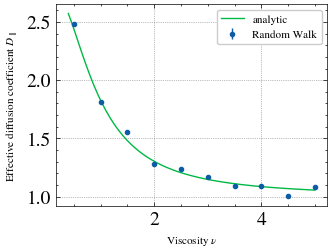
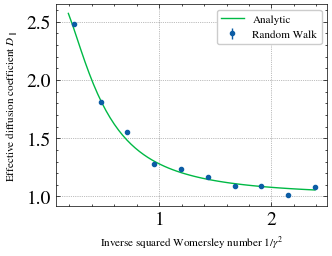
plotted more, and moved some old files

diff --git a/geometry_calculation/trash_code/plot_u2.py b/geometry_calculation/trash_code/plot_u2.py
@@ -1,62 +1,43 @@
 import numpy as np 
 import matplotlib.pyplot as plt 
-import pandas as pd
+#from cmath import *
 from scipy.interpolate import griddata
-import matplotlib
-import matplotlib.ticker as tick 
-import os
 
-matplotlib.rc('xtick', labelsize=14)
-matplotlib.rc('ytick', labelsize=14)
-matplotlib.rcParams['mathtext.fontset'] = 'stix'
-matplotlib.rcParams['font.family'] = 'STIXGeneral'
-
-epsilon = 0.2
-
-Sc = 1
-F0 = 1
-pi = np.pi 
-omega = 1
-kappa = 2
+Ny = int(300)
+Nx = 100
 Nt = 10
-T = np.linspace(0, np.pi/omega, Nt)
-eta = np.linspace(-np.pi/(2*kappa), 3*np.pi/kappa+np.pi/(2*kappa), 100)
-xi = np.linspace(-1, 1, 500)
-gamma = np.sqrt(1j*omega/Sc)
 
-u_x = np.zeros((len(T), len(xi), len(eta)), dtype="complex")
-u_y = np.zeros((len(T), len(xi), len(eta)), dtype="complex")
+epsilon = 0.3
+omega = 1	
+Sc = 1
+kappa = 1e-3
+gamma = 1j*omega/Sc 
+F0 = 3
 
-kappa_prime = np.sqrt(1j*omega/Sc + kappa*kappa)
-P1 = (gamma*F0*np.tanh(gamma)/(kappa*np.cosh(kappa)))/(1-kappa_prime*np.tanh(kappa)/(kappa*np.tanh(kappa_prime)))
 kappa_p = np.sqrt(kappa*kappa+gamma*gamma)
 kappa_pp = np.sqrt(4*kappa*kappa+gamma*gamma)
 P_1 = (gamma*F0*np.tanh(gamma)/(kappa*np.cosh(kappa)))/(1-kappa_p*np.tanh(kappa)/(kappa*np.tanh(kappa_p)))
-
-for t in range(len(T)):
-	for x in range(len(xi)):
-		u_x[t,x,:]    = epsilon*np.sin(kappa*eta)*(  (P1*kappa*np.cosh(kappa)/(gamma*gamma))*(np.cosh(kappa*xi[x])/np.cosh(kappa) - np.cosh(kappa_prime*xi[x])/np.cosh(kappa_prime))   + (F0*np.tanh(gamma)/(gamma))*(np.cosh(kappa_prime*xi[x])/np.cosh(kappa_prime) - xi[x]*np.sinh(gamma*xi[x])/np.sinh(gamma))  )
-		u_x[t,x,:]   += F0*(1-np.cosh(gamma*xi[x])/np.cosh(gamma))/(gamma*gamma)
-		u_x[t,x,:]   *= np.exp(1j*omega*T[t])
-
-		u_y[t, x, :] = epsilon*(np.exp(1j*omega*T[t])*np.cos(kappa*eta)*kappa*P1*np.sinh(kappa)/(gamma*gamma))*( np.sinh(kappa_prime*xi[x])/np.sinh(kappa_prime) - np.sinh(kappa*xi[x])/np.sinh(kappa))
-
-u_x = np.real(u_x)
-u_y = np.real(u_y)
 
 from cmath import *
 Ax = sqrt(gamma**2 + 4*kappa**2)*(F0*gamma**2*sinh(2*kappa)*tanh(kappa_p) + 2*P_1*gamma**2*sinh(kappa)*sinh(2*kappa)*tanh(kappa_p) + 2*P_1*kappa**2*cosh(kappa)*cosh(2*kappa)*tanh(kappa_p) - 2*P_1*kappa*kappa_p*sinh(kappa)*cosh(2*kappa))/(4*gamma**2*(2*kappa*sinh(sqrt(gamma**2 + 4*kappa**2))*cosh(2*kappa) - sqrt(gamma**2 + 4*kappa**2)*sinh(2*kappa)*cosh(sqrt(gamma**2 + 4*kappa**2)))*tanh(kappa_p))
 Ay = kappa*(F0*gamma**2*sinh(2*kappa)*tanh(kappa_p) + 2*P_1*gamma**2*sinh(kappa)*sinh(2*kappa)*tanh(kappa_p) + 2*P_1*kappa**2*cosh(kappa)*cosh(2*kappa)*tanh(kappa_p) - 2*P_1*kappa*kappa_p*sinh(kappa)*cosh(2*kappa))/(2*gamma**2*(2*kappa*sinh(sqrt(gamma**2 + 4*kappa**2))*cosh(2*kappa) - sqrt(gamma**2 + 4*kappa**2)*sinh(2*kappa)*cosh(sqrt(gamma**2 + 4*kappa**2)))*tanh(kappa_p))
 psi_2 = (P_1*sqrt(gamma**2 + 4*kappa**2)*(kappa*cosh(kappa)*tanh(kappa_p) - kappa_p*sinh(kappa))*cosh(sqrt(gamma**2 + 4*kappa**2)) + gamma**2*(F0 + 2*P_1*sinh(kappa))*sinh(sqrt(gamma**2 + 4*kappa**2))*tanh(kappa_p))/(4*(2*kappa*sinh(sqrt(gamma**2 + 4*kappa**2))*cosh(2*kappa) - sqrt(gamma**2 + 4*kappa**2)*sinh(2*kappa)*cosh(sqrt(gamma**2 + 4*kappa**2)))*tanh(kappa_p))
 
+
+T = np.linspace(0, 2*np.pi/omega, Nt)
+eta = np.linspace(0, 4*np.pi/kappa, Nx)
+xi = np.linspace(-1, 1, Ny)
+u = np.zeros((2, Ny, Nx, Nt))
+
 uy = (-P_1*kappa**2*xi*np.cosh(kappa*xi)/(2*gamma**2) + P_1*kappa*kappa_p*xi*np.sinh(kappa)*np.cosh(kappa_p*xi)/(2*gamma**2*np.sinh(kappa_p)) - 2*kappa*psi_2*np.sinh(2*kappa*xi)/gamma**2) + Ay*np.sinh(kappa_pp*xi)
 ux = F0*xi**2*np.cosh(gamma*xi)/(4*np.cosh(gamma)) - P_1*kappa**2*xi*np.sinh(kappa*xi)/(2*gamma**2) + P_1*kappa_p*kappa_p*np.sinh(kappa)*xi*np.sinh(kappa_p*xi)/(2*gamma**2*np.sinh(kappa_p)) - 2*kappa*psi_2*np.cosh(2*kappa*xi)/gamma**2 + Ax*np.cosh(kappa_pp*xi)
+ux_no_eta   = P_1*kappa*kappa*xi*np.sinh(kappa*xi)/(2*gamma*gamma) - F0*xi*xi*np.cosh(gamma*xi)/(4*np.cosh(gamma)) - P_1*kappa_p*kappa_p*np.sinh(kappa)*xi*np.sinh(kappa_p*xi)/(2*gamma*gamma*np.sinh(kappa_p)) + (P_1*np.sinh(kappa)/2 + F0/4)*np.cosh(gamma*xi)/np.cosh(gamma)
 ux_no_eta = P_1*kappa*kappa*np.sinh(kappa)*(xi*np.sinh(kappa*xi)/np.sinh(kappa) - np.cosh(gamma*xi)/np.cosh(gamma))/(2*gamma*gamma) + F0*np.cosh(gamma*xi)*(1-xi*xi)/(4*np.cosh(gamma)) + P_1*kappa_p*kappa_p*np.sinh(kappa)*(np.cosh(gamma*xi)/np.cosh(gamma)-xi*np.sinh(kappa_p*xi)/np.sinh(kappa_p))/(2*gamma*gamma)
 
-for i in range(len(T)):
-	for x in range(len(eta)):
-		u_x[i, :, x] += epsilon*epsilon*np.real(np.exp(1j*omega*T[i])*ux*np.cos(2*kappa*eta[x])) + epsilon*epsilon*np.real(np.exp(1j*omega*T[i])*ux_no_eta)
-		u_y[i, :, x] += epsilon*epsilon*np.real(np.exp(1j*omega*T[i])*uy*np.sin(2*kappa*eta[x]))
+for i in range(Nt):
+	for x in range(Nx):
+		u[0, :, x, i] = np.real(np.exp(1j*omega*T[i])*ux*np.cos(2*kappa*eta[x])) + np.real(np.exp(1j*omega*T[i])*ux_no_eta)
+		u[1, :, x, i] = np.real(np.exp(1j*omega*T[i])*uy*np.sin(2*kappa*eta[x]))
 
 x2 = eta
 y2 = np.linspace(-1-epsilon, 1+epsilon, 110)
@@ -75,30 +56,26 @@ for i in range(len(x)):
 for i in range(len(T)):
 	plt.clf()
 	# Interpolate using three different methods and plot
-	ux = griddata( (x.flatten(),  y.flatten()), u_x[i,:,:].flatten(), (X, Y), method='nearest')
-	uy = griddata( (x.flatten(),  y.flatten()), u_y[i,:,:].flatten(), (X, Y), method='nearest')
+	ux = griddata( (x.flatten(),  y.flatten()), u[0,:,:,i].flatten(), (X, Y), method='nearest')
+	uy = griddata( (x.flatten(),  y.flatten()), u[1,:,:,i].flatten(), (X, Y), method='nearest')
+	ux = ux*epsilon*epsilon 
+	uy = uy*epsilon*epsilon
 	speed = np.sqrt(np.square(ux) + np.square(uy))
 
 	ux[np.where(np.abs(uy)<1e-5)] = 0
 	uy[np.where(np.abs(uy)<1e-5)] = 0
 
-	plt.streamplot(X, Y, ux, uy, density=1.0, color='k')
-	CS = plt.contourf(X, Y, speed, levels=np.linspace(0, 0.6, 15))
+	plt.streamplot(X, Y, ux, uy, density=0.6, color='k')
+	CS = plt.contourf(X, Y, speed, levels=np.linspace(0, 1.1, 40))
 	cbar = plt.colorbar(CS)
-	cbar.set_label(r"Velocity $[U]$", fontsize=12)
-	cbar.ax.yaxis.set_major_formatter(tick.FormatStrFormatter("%.1f"))
 	plt.xlabel(r"Horizontal position $\eta$ $[\kappa^{-1}]$", fontsize=12)
 	plt.ylabel(r"Vertical position   $\xi$ ", fontsize=12)
 	plt.plot(x[0,:], y[0, :], "k", linewidth=3)
 	plt.plot(x[0,:], y[-1,:], "k", linewidth=3)
-	plt.fill_between(x[0,:], (-1-epsilon)*np.ones(len(x[0,:]))-0.05, y[0,:], color="k")
-	plt.fill_between(x[0,:], ( 1+epsilon)*np.ones(len(x[0,:]))+0.05, -y[0,:], color="k")
-	plt.axis([min(eta), max(eta), -1-epsilon-0.05, 1+epsilon+0.05])
-	#plt.axis([-0.5, 2, -1-epsilon, -0.5])
-	#plt.axis("equal")
+	plt.fill_between(x[0,:], (-1-epsilon)*np.ones(len(x[0,:])), y[0,:], color="k")
+	plt.fill_between(x[0,:], ( 1+epsilon)*np.ones(len(x[0,:])), -y[0,:], color="k")
 	plt.draw()
+	plt.axis([min(eta), max(eta), -1-epsilon-0.05, 1+epsilon+0.05])
 	plt.pause(0.5)
-	filename = "figures/streamplot_nr"+str(i)+".pdf"
-	plt.savefig(filename, bbox_inches="tight")
-	os.system('pdfcrop %s %s &> /dev/null &'%(filename, filename))
+	plt.savefig("figures/streamplot_u2_nr"+str(i)+".pdf")
 plt.show()

diff --git a/geometry_calculation/finished_plots/plot_total_u.py b/geometry_calculation/finished_plots/plot_total_u.py
@@ -1,0 +1,131 @@
+import numpy as np 
+import matplotlib.pyplot as plt 
+import pandas as pd
+from scipy.interpolate import griddata
+import matplotlib
+import matplotlib.ticker as tick 
+import os
+
+matplotlib.rc('xtick', labelsize=14)
+matplotlib.rc('ytick', labelsize=14)
+matplotlib.rcParams['mathtext.fontset'] = 'stix'
+matplotlib.rcParams['font.family'] = 'STIXGeneral'
+root = "../../../master_latex/results/"
+
+epsilon = 0.2
+
+Sc = 0.2
+F0 = 12
+pi = np.pi 
+tau = 3.0
+omega = 2*pi/tau
+kappa = 1.0
+Nt = 10
+T = np.linspace(0, np.pi/omega, Nt)
+eta = np.linspace(-np.pi/(2*kappa), np.pi/kappa+np.pi/(2*kappa), 100)
+xi = np.linspace(-1, 1, 500)
+gamma = np.sqrt(1j*omega/Sc)
+
+u_x = np.zeros((len(T), len(xi), len(eta)), dtype="complex")
+u_y = np.zeros((len(T), len(xi), len(eta)), dtype="complex")
+
+kappa_prime = np.sqrt(1j*omega/Sc + kappa*kappa)
+P1 = (gamma*F0*np.tanh(gamma)/(kappa*np.cosh(kappa)))/(1-kappa_prime*np.tanh(kappa)/(kappa*np.tanh(kappa_prime)))
+kappa_p = np.sqrt(kappa*kappa+gamma*gamma)
+kappa_pp = np.sqrt(4*kappa*kappa+gamma*gamma)
+P_1 = (gamma*F0*np.tanh(gamma)/(kappa*np.cosh(kappa)))/(1-kappa_p*np.tanh(kappa)/(kappa*np.tanh(kappa_p)))
+
+for t in range(len(T)):
+	for x in range(len(xi)):
+		u_x[t,x,:]    = epsilon*np.sin(kappa*eta)*(  (P1*kappa*np.cosh(kappa)/(gamma*gamma))*(np.cosh(kappa*xi[x])/np.cosh(kappa) - np.cosh(kappa_prime*xi[x])/np.cosh(kappa_prime))   + (F0*np.tanh(gamma)/(gamma))*(np.cosh(kappa_prime*xi[x])/np.cosh(kappa_prime) - xi[x]*np.sinh(gamma*xi[x])/np.sinh(gamma))  )
+		u_x[t,x,:]   += F0*(1-np.cosh(gamma*xi[x])/np.cosh(gamma))/(gamma*gamma)
+		u_x[t,x,:]   *= np.exp(1j*omega*T[t])
+
+		u_y[t, x, :] = epsilon*(np.exp(1j*omega*T[t])*np.cos(kappa*eta)*kappa*P1*np.sinh(kappa)/(gamma*gamma))*( np.sinh(kappa_prime*xi[x])/np.sinh(kappa_prime) - np.sinh(kappa*xi[x])/np.sinh(kappa))
+
+u_x = np.real(u_x)
+u_y = np.real(u_y)
+
+from cmath import *
+Ax = sqrt(gamma**2 + 4*kappa**2)*(F0*gamma**2*sinh(2*kappa)*tanh(kappa_p) + 2*P_1*gamma**2*sinh(kappa)*sinh(2*kappa)*tanh(kappa_p) + 2*P_1*kappa**2*cosh(kappa)*cosh(2*kappa)*tanh(kappa_p) - 2*P_1*kappa*kappa_p*sinh(kappa)*cosh(2*kappa))/(4*gamma**2*(2*kappa*sinh(sqrt(gamma**2 + 4*kappa**2))*cosh(2*kappa) - sqrt(gamma**2 + 4*kappa**2)*sinh(2*kappa)*cosh(sqrt(gamma**2 + 4*kappa**2)))*tanh(kappa_p))
+Ay = kappa*(F0*gamma**2*sinh(2*kappa)*tanh(kappa_p) + 2*P_1*gamma**2*sinh(kappa)*sinh(2*kappa)*tanh(kappa_p) + 2*P_1*kappa**2*cosh(kappa)*cosh(2*kappa)*tanh(kappa_p) - 2*P_1*kappa*kappa_p*sinh(kappa)*cosh(2*kappa))/(2*gamma**2*(2*kappa*sinh(sqrt(gamma**2 + 4*kappa**2))*cosh(2*kappa) - sqrt(gamma**2 + 4*kappa**2)*sinh(2*kappa)*cosh(sqrt(gamma**2 + 4*kappa**2)))*tanh(kappa_p))
+psi_2 = (P_1*sqrt(gamma**2 + 4*kappa**2)*(kappa*cosh(kappa)*tanh(kappa_p) - kappa_p*sinh(kappa))*cosh(sqrt(gamma**2 + 4*kappa**2)) + gamma**2*(F0 + 2*P_1*sinh(kappa))*sinh(sqrt(gamma**2 + 4*kappa**2))*tanh(kappa_p))/(4*(2*kappa*sinh(sqrt(gamma**2 + 4*kappa**2))*cosh(2*kappa) - sqrt(gamma**2 + 4*kappa**2)*sinh(2*kappa)*cosh(sqrt(gamma**2 + 4*kappa**2)))*tanh(kappa_p))
+
+uy = (-P_1*kappa**2*xi*np.cosh(kappa*xi)/(2*gamma**2) + P_1*kappa*kappa_p*xi*np.sinh(kappa)*np.cosh(kappa_p*xi)/(2*gamma**2*np.sinh(kappa_p)) - 2*kappa*psi_2*np.sinh(2*kappa*xi)/gamma**2) + Ay*np.sinh(kappa_pp*xi)
+ux = F0*xi**2*np.cosh(gamma*xi)/(4*np.cosh(gamma)) - P_1*kappa**2*xi*np.sinh(kappa*xi)/(2*gamma**2) + P_1*kappa_p*kappa_p*np.sinh(kappa)*xi*np.sinh(kappa_p*xi)/(2*gamma**2*np.sinh(kappa_p)) - 2*kappa*psi_2*np.cosh(2*kappa*xi)/gamma**2 + Ax*np.cosh(kappa_pp*xi)
+ux_no_eta = P_1*kappa*kappa*np.sinh(kappa)*(xi*np.sinh(kappa*xi)/np.sinh(kappa) - np.cosh(gamma*xi)/np.cosh(gamma))/(2*gamma*gamma) + F0*np.cosh(gamma*xi)*(1-xi*xi)/(4*np.cosh(gamma)) + P_1*kappa_p*kappa_p*np.sinh(kappa)*(np.cosh(gamma*xi)/np.cosh(gamma)-xi*np.sinh(kappa_p*xi)/np.sinh(kappa_p))/(2*gamma*gamma)
+U2 = np.zeros(len(T))
+
+for i in range(len(T)):
+	for x in range(len(eta)):
+		u_x[i, :, x] += epsilon*epsilon*np.real(np.exp(1j*omega*T[i])*ux*np.cos(2*kappa*eta[x])) + epsilon*epsilon*np.real(np.exp(1j*omega*T[i])*ux_no_eta)
+		u_y[i, :, x] += epsilon*epsilon*np.real(np.exp(1j*omega*T[i])*uy*np.sin(2*kappa*eta[x]))
+	U2[i] = np.max(u_x)
+
+U = np.max(U2)
+
+x2 = eta
+y2 = np.linspace(-1-epsilon, 1+epsilon, 110)
+X, Y = np.meshgrid(x2, y2)
+
+a = 1
+x = np.zeros((len(xi), len(eta)))
+y = np.zeros((len(xi), len(eta)))
+
+for i in range(len(eta)):
+	y[:, i] = xi*a*(1+epsilon*np.sin(kappa*eta[i]))
+
+for i in range(len(x)):
+	x[i, :] = a*eta
+
+tot_height = max(eta)-(min(eta))
+print(tot_height)
+
+D = tot_height/2 - 1
+print(D)
+
+stream_points   = np.array(list(zip( pi/(2*kappa)*np.ones(20), np.linspace(-1-epsilon, 1+epsilon, 20))))
+stream_points2  = np.array(list(zip( pi/(2*kappa)*np.ones(20)+2*np.pi/kappa, np.linspace(-1-epsilon, 1+epsilon, 20))))
+
+#fig = plt.figure(1)
+for i in range(len(T)):
+	#ax = fig.add_subplot(111)
+	#ax.plot([min(eta),max(eta)],[-1-epsilon-0.1,1+epsilon+0.1])
+	#ax.set_aspect(1)
+	#ax.set_xlim(min(eta), max(eta))
+	#fig = plt.figure(1, figsize=(14.8, 5.7), edgecolor="white")
+	plt.clf()
+	# Interpolate using three different methods and plot
+	ux = griddata( (x.flatten(),  y.flatten()), u_x[i,:,:].flatten()/U, (X, Y), method='nearest')
+	uy = griddata( (x.flatten(),  y.flatten()), u_y[i,:,:].flatten()/U, (X, Y), method='nearest')
+	speed = np.sqrt(np.square(ux) + np.square(uy))
+	ux[np.where(np.abs(uy)<1e-5)] = 0
+	uy[np.where(np.abs(uy)<1e-5)] = 0
+
+	plt.streamplot(X, Y, ux, uy, color='k', start_points=stream_points, density=35)
+	CS = plt.contourf(X, Y, speed, levels=np.linspace(0, 1.0, 15))
+	plt.streamplot(X+2*np.pi/kappa, Y, ux, uy, color='k', start_points=stream_points2, density=35)
+	CS = plt.contourf(X+2*np.pi/kappa, Y, speed, levels=np.linspace(0, 1.0, 15))
+	cbar = plt.colorbar(CS)
+	cbar.set_label(r"Velocity $[U_{max}]$", fontsize=12)
+	cbar.ax.yaxis.set_major_formatter(tick.FormatStrFormatter("%.1f"))
+	plt.xlabel(r"Horizontal position $x$   $[a]$  ", fontsize=12)
+	plt.ylabel(r"Vertical position   $y$   $[a]$  ", fontsize=12)
+	plt.plot(x[0,:], y[0, :], "k", linewidth=3)
+	plt.plot(x[0,:], y[-1,:], "k", linewidth=3)
+	plt.fill_between(x[0,:], (-1.4)*np.ones(len(x[0,:])), y[0,:], color="k")
+	plt.fill_between(x[0,:], ( 1.4)*np.ones(len(x[0,:])), -y[0,:], color="k")
+	plt.fill_between(x[0,:]+2*np.pi/kappa, (-1.4)*np.ones(len(x[0,:])), y[0,:], color="k")
+	plt.fill_between(x[0,:]+2*np.pi/kappa, ( 1.4)*np.ones(len(x[0,:])), -y[0,:], color="k")
+	#plt.axis([min(eta), max(eta), -1-epsilon-0.05, 1+epsilon+0.05])
+	plt.axis([min(eta), max(eta)+2*np.pi/kappa, -1-epsilon-0.05, 1+epsilon+0.05])
+	#plt.axis("equal")
+	plt.draw()
+	#fig.tight_layout()
+	#plt.axis("scaled")
+	plt.pause(0.5)
+
+	filename = root + "streamplot_nr"+str(i)+".pdf"
+	plt.savefig(filename, bbox_inches="tight")
+	os.system('pdfcrop %s %s &> /dev/null &'%(filename, filename))
+plt.show()

diff --git a/geometry_calculation/finished_plots/plot_D0_analytic_RW_simulation.py b/geometry_calculation/finished_plots/plot_D0_analytic_RW_simulation.py
@@ -11,12 +11,13 @@ matplotlib.rc('xtick', labelsize=14)
 matplotlib.rc('ytick', labelsize=14)
 matplotlib.rcParams['mathtext.fontset'] = 'stix'
 matplotlib.rcParams['font.family'] = 'STIXGeneral'
+root = "../../../master_latex/results/"
 
 visc = np.array([0.5, 1.0, 1.5, 2.0, 2.5, 3.0, 3.5, 4.0, 4.5, 5.0])
 data = {}
 
 for i in range(len(visc)):
-    data[str(i)] = np.load("data_test/D0.25__visc_"+str(visc[i])+"_var_over_t.npy")
+    data[str(i)] = np.load("../data_test/D0.25__visc_"+str(visc[i])+"_var_over_t.npy")
 
 
 analytic = np.zeros(len(visc))
@@ -26,6 +27,7 @@ tau          = 3.0
 D = 0.25
 periods = 1000
 t = np.linspace(0, periods, int(len(data["1"])))
+G = np.sqrt(omega/visc)
 
 for i in range(len(visc)):
     Sc = visc[i]
@@ -46,27 +48,32 @@ for i in range(len(visc)):
     D[i] = (np.mean(data[str(i)][cutoff:]))
     error = (np.std(data[str(i)][cutoff:]))
 
-for i in range(len(visc)-4):
+idxs = [1, 2, 3, 4, 6]
+counter = 0
+for i in idxs:
     fig = plt.figure(1)
-    plt.plot(t[::plot_skip], data[str(i)][::plot_skip], "C"+str(i), label=r"$\nu=$"+str(visc[i]))
-    plt.plot(t[::plot_skip], np.ones(len(t[::plot_skip]))*analytic[i], "--", color="C"+str(i))
+    plt.plot(t[::plot_skip], data[str(i)][::plot_skip], "C"+str(counter), label=r"$\gamma=%3.2f$" % (G[i]))
+    plt.plot(t[::plot_skip], np.ones(len(t[::plot_skip]))*analytic[i], "-", color="C"+str(counter))
+    plt.fill_between(t[::plot_skip], np.ones(len(t[::plot_skip]))*analytic[i], data[str(i)][::plot_skip], alpha=0.5)
+    counter += 1
 
 plt.legend(loc="best", fontsize=8, ncol=3)
-plt.xlabel(r"Time [periods $T$]", fontsize=8)
+plt.xlabel(r"Time [periods $\tau$]", fontsize=8)
+plt.axis([10, 1015, 0.9, 2.25])
 plt.ylabel(r"Effective diffusion coefficient $D_\parallel$", fontsize=8)
 plt.tick_params(axis='both', which='major', labelsize=8)
 plt.savefig("figures/comparison_analytic_and_numeric.png")
-name = "figures/D_eff_vs_t.pdf"
+name = root+"figures/D_eff_vs_t.pdf"
 fig.savefig(name, bbox_inches="tight")
 os.system('pdfcrop %s %s &> /dev/null &'%(name, name))
 
 fig = plt.figure(2)
-plt.errorbar(visc, D, yerr=error, fmt="o", markersize=3 , label="Random Walk")
+plt.errorbar(1/(G*G), D, yerr=error, fmt="o", markersize=3 , label="Random Walk")
 
 
 visc = np.linspace(0.4, 5, 60)
 analytic = np.zeros(len(visc))
-
+G = np.sqrt(omega/visc)
 for i in range(len(visc)):
     D = 0.25
     Sc = visc[i]
@@ -78,13 +85,13 @@ for i in range(len(visc)):
     Pe = 1/D
     analytic[i] = 1 + Pe*Pe*F0*F0*np.tanh(gamma)*np.tanh(gamma_c)/(4*gamma*gamma_c*(gamma**4 - rho**4))*(1/(gamma*gamma)*(gamma/np.tanh(gamma) - gamma_c/np.tanh(gamma_c)) - 1/(rho*rho)*(rho/np.tanh(rho) - rho_c/np.tanh(rho_c)))
 
-plt.plot(visc, analytic, label="analytic")
+plt.plot(1/(G*G), analytic, label="Analytic")
 plt.legend(loc="best", fontsize=8)
-plt.xlabel(r"Viscosity $\nu$", fontsize=8)
+plt.xlabel(r"Inverse squared Womersley number $1/\gamma^2$", fontsize=8)
 plt.ylabel(r"Effective diffusion coefficient $D_\parallel$", fontsize=8)
 plt.savefig("figures/comparison_analytic_and_numeric.png")
 plt.tick_params(axis='both', which='major', labelsize=8)
-name = "figures/D_eff_vs_visc.pdf"
+name = root+"figures/D_eff_vs_visc.pdf"
 fig.savefig(name, bbox_inches="tight")
 os.system('pdfcrop %s %s &> /dev/null &'%(name, name))
 plt.show()

diff --git a/geometry_calculation/finished_plots/plot_D0_eff.py b/geometry_calculation/finished_plots/plot_D0_eff.py
@@ -55,8 +55,10 @@ os.system('pdfcrop %s %s &> /dev/null &'%(filename, filename))
 plt.show()
 """
 
-Schmidt = np.logspace(-2.501, 2.501, 300)
-rhos = np.sqrt(1j*np.logspace(-2.5, 2.5, 7))
+Schmidt = np.logspace(-3.6, 2.6, int(1e4))
+D = np.logspace(-3, 2, 6)
+Pe = 1/D
+rhos = np.sqrt(1j/D)
 rhos_c = np.conjugate(rhos)
 D_eff2 = np.zeros((len(Schmidt), len(rhos), 2))
 
@@ -67,23 +69,24 @@ for i in range(len(rhos)):
 	gamma = rho*np.sqrt(Schmidt)
 	gamma_c = rho_c*np.sqrt(Schmidt)
 
-	D_eff2[:, i, 0] = 1+ F0*F0*Pe*Pe*np.tanh(gamma)*np.tanh(gamma_c)/(4*gamma*gamma_c*(gamma**4 - rho**4))*(1/(gamma*gamma)*(gamma/np.tanh(gamma) - gamma_c/np.tanh(gamma_c)) - 1/(rho*rho)*(rho/np.tanh(rho) - rho_c/np.tanh(rho_c)))    
-	amp = F0*F0*Pe*Pe*tanh(gamma)*tanh(gamma)/(4*gamma*gamma*(rho*rho-gamma*gamma)**2) * ( (1/(rho*tanh(rho)) - 1/(sinh(rho)**2) + 1/(gamma*tanh(gamma)) - 1/(sinh(gamma)**2) - 4*(rho/tanh(rho) - gamma/tanh(gamma))/(rho*rho-gamma*gamma))/2)
+	D_eff2[:, i, 0] = 1+ F0*F0*Pe[i]*Pe[i]*np.tanh(gamma)*np.tanh(gamma_c)/(4*gamma*gamma_c*(gamma**4 - rho**4))*(1/(gamma*gamma)*(gamma/np.tanh(gamma) - gamma_c/np.tanh(gamma_c)) - 1/(rho*rho)*(rho/np.tanh(rho) - rho_c/np.tanh(rho_c)))    
+	amp = F0*F0*Pe[i]*Pe[i]*tanh(gamma)*tanh(gamma)/(4*gamma*gamma*(rho*rho-gamma*gamma)**2) * ( (1/(rho*tanh(rho)) - 1/(sinh(rho)**2) + 1/(gamma*tanh(gamma)) - 1/(sinh(gamma)**2) - 4*(rho/tanh(rho) - gamma/tanh(gamma))/(rho*rho-gamma*gamma))/2)
 	D_eff2[:, i, 1] = np.sqrt(np.real(amp)**2 + np.imag(amp)**2)
 
 
 fig = plt.figure(1)
 for i in range(len(rhos)):
-	#plt.plot(Schmidt, D_eff2[:,0])
-	plt.fill_between(Schmidt, D_eff2[:,i,0]+D_eff2[:,i, 1]-1, D_eff2[:,i,0]-D_eff2[:,i, 1]-1, alpha=0.5, label=r"$\rho=%3.2f$" % np.real(rhos[i]))
+	#plt.plot(Schmidt, D_eff2[:,0], color="C"+str(i))
+	plt.fill_between(Schmidt, D_eff2[:,i,0]+D_eff2[:,i, 1]-1, D_eff2[:,i,0]-D_eff2[:,i, 1]-1, alpha=0.77, color="C"+str(i), label=r"$\rho^2=10^{%1.0f}$" % np.log10(1/D[i]))
 
 plt.xscale('log')
 plt.yscale('log')
-plt.xlabel(r"Molecular Womserley number $\frac{\omega a^2}{D}$", fontsize=8)
-plt.ylabel(r"Womserley number $\frac{\omega a^2}{\nu}$", fontsize=8)
+plt.legend(loc="lower center", fontsize=8, ncol=3, handlelength=1.4)
+plt.xlabel(r"Schmidt number $\frac{\nu}{D}$", fontsize=8)
+plt.ylabel(r"Effective Diffusion coefficient $D_\parallel -1 $", fontsize=8)
 plt.tick_params(axis='both', which='major', labelsize=8)
 plt.tick_params(axis='both', which='minor', labelsize=8)
-#filename = root + "figures/D_0_eff.pdf"
-#plt.savefig(filename, bbox_inches="tight")
-#os.system('pdfcrop %s %s &> /dev/null &'%(filename, filename))
+filename = root + "figures/D0_vs_Schmidt.pdf"
+plt.savefig(filename, bbox_inches="tight")
+os.system('pdfcrop %s %s &> /dev/null &'%(filename, filename))
 plt.show()
